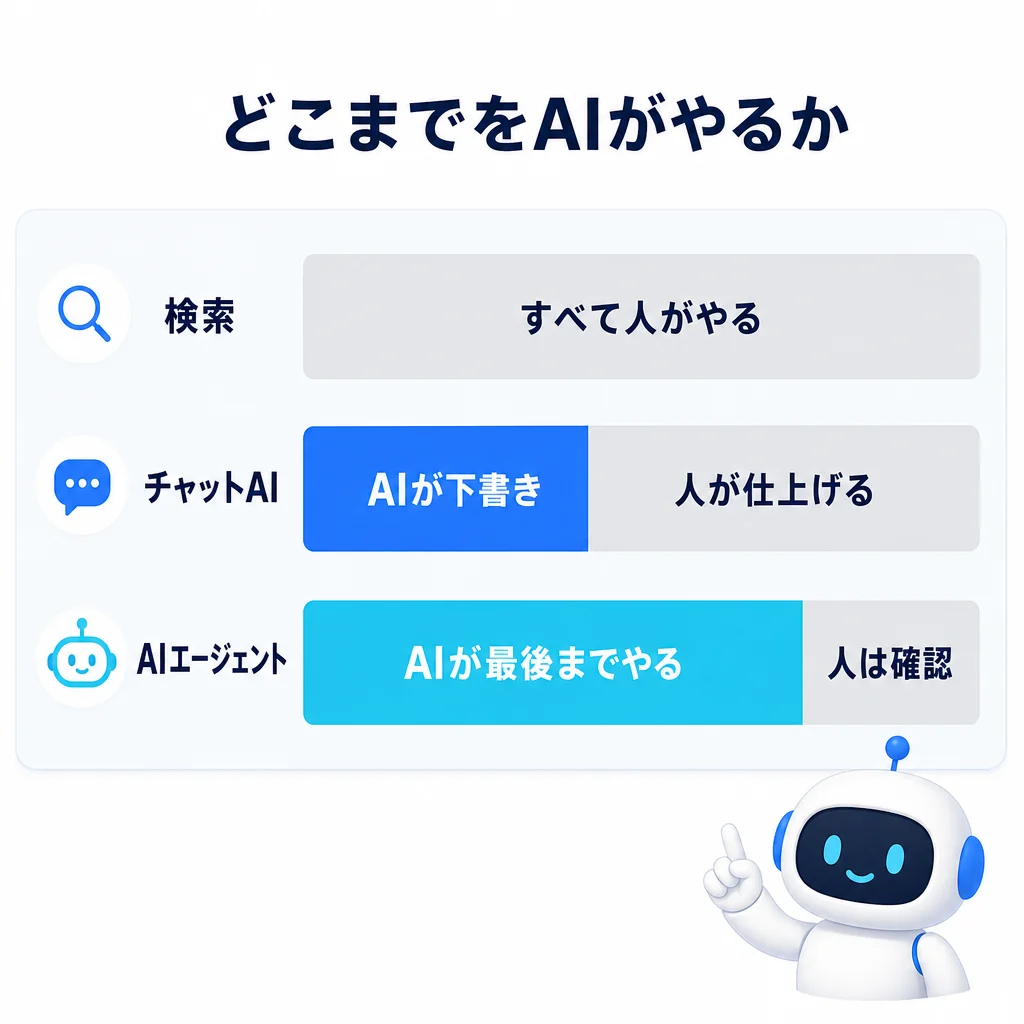
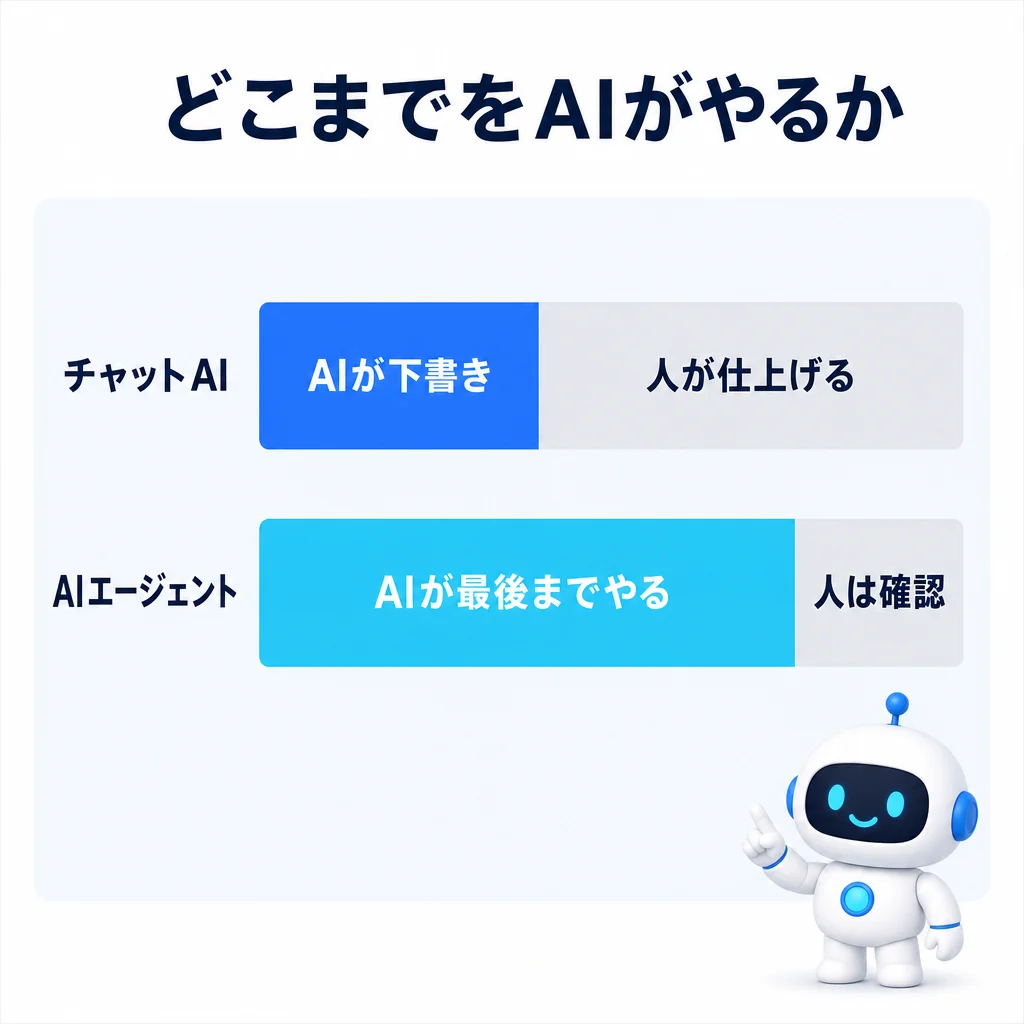
熊本AIエージェントLP: 導入効果・セキュリティを新設し、内部リンクを1本→10本へ
「熊本 AI導入支援」で当LPが拾われていない主因は内部リンクの少なさだった。
研修LPには15本ある一方、当LPは/service/からの1本のみ。ここを是正しつつ、
検索意図に対して不足していた「導入するとどうなるか」と「セキュリティ」を追加した。

コンテンツ
- 冒頭にTSMC進出を含む社会的背景を追加。熊本で人材獲得競争が激化し、
  中小企業の採用条件が厳しくなっている前提から入る
- RESULTS「熊本の会社がAIエージェントを導入すると、どうなるのか」新設。
  朝の30分／属人化／繁忙期の3場面をbefore-afterで示す
- SECURITY「セキュリティは、企業様ごとに設計します」新設。
  読ませる範囲・人の確認・記録の3層＋士業/製造/建設/医療介護の線引き。
  絶対に事故が起きない仕組みは存在しない旨も明記して過度な保証はしない
- AIエージェントの説明から「検索」を外し、チャットAIとAIエージェントの
  2つの対比に整理（光太郎くん指示）

内部リンク
- Base.astroのフッターに追加（全37ページから到達）
- トップページのサービス欄に熊本2LPへの導線を追加
- 研修LPから相互リンク
- AIエージェント系ブログ6本の末尾に文脈リンク

レイアウト
- 3枚組の中間幅を2列＋3枚目センター寄せに変更。1列送りだと間延びしていた

図解は文字入り明色版を3枚追加（導入前後・セキュリティ・帯グラフの2行版）。

Changed region(s): [[0.0312, 0.2812, 0.9688, 1.0], [0.1562, 0.0625, 0.9062, 0.1562], [0.9375, 0.9375, 0.9688, 0.9688]]

diff --git a/src/content/blog/chusho-90days-ai-donyu.md b/src/content/blog/chusho-90days-ai-donyu.md
@@ -64,4 +64,4 @@ thumb: "/thumbs/chusho-90days-ai-donyu.webp"
 
 熊本で研修や導入支援をさせていただいてきた中でも、90日を過ぎたころに「もっと早く始めればよかった」とおっしゃる経営者の方がとても多いです。裏を返せば、それだけ最初の一歩のハードルが高く見えているということでもあります。
 
-一社ごとに業種も体制も違うので、90日プランの中身は当然カスタマイズが必要です。熊本の企業向けの[生成AI研修](/kumamoto-ai-training/)や、業種別の[導入実績](/works/)もサイトにまとめていますので、自社に当てはめて考える材料としてご覧いただければ幸いです。ここから先の90日が、御社にとって「動き出しの90日」になれば嬉しく思います。
+一社ごとに業種も体制も違うので、90日プランの中身は当然カスタマイズが必要です。熊本の企業向けの[生成AI研修](/kumamoto-ai-training/)、業務の自動化まで見据えるなら[熊本のAI導入支援](/kumamoto-ai-agent/)、業種別の[導入実績](/works/)もサイトにまとめていますので、自社に当てはめて考える材料としてご覧いただければ幸いです。ここから先の90日が、御社にとって「動き出しの90日」になれば嬉しく思います。

diff --git a/src/content/blog/ai-shain-tsukurikata.md b/src/content/blog/ai-shain-tsukurikata.md
@@ -263,4 +263,4 @@ AI社員は優秀ですが、位置づけはあくまで新入社員です。入
 
 ![始め方は、まず1人まず1業務。今日は会社の事実を1枚書く、今週は仕事を1つ頼む、来月は手順書を足す](/blog/ai-shain-tsukurikata/12-hajimekata.webp)
 
-弊社WizTryは熊本を拠点に、企業向けの生成AI研修とAIエージェント導入支援を行っています。この記事のような仕組みを自社でも作ってみたい、まず何から始めればいいか相談したい、という方は[サービス案内](/service/)や[導入実績](/works/)をご覧ください。研修をお探しの方には[熊本の生成AI研修](/kumamoto-ai-training/)のページにまとめています。
+弊社WizTryは熊本を拠点に、企業向けの生成AI研修とAIエージェント導入支援を行っています。この記事のような仕組みを自社でも作ってみたい、まず何から始めればいいか相談したい、という方は[サービス案内](/service/)や[導入実績](/works/)をご覧ください。研修をお探しの方には[熊本の生成AI研修](/kumamoto-ai-training/)、仕組みづくりから任せたい方には[熊本のAIエージェント導入支援](/kumamoto-ai-agent/)のページにまとめています。

diff --git a/src/content/blog/agent-skills-kaisetsu.md b/src/content/blog/agent-skills-kaisetsu.md
@@ -54,6 +54,6 @@ SKILL.mdの先頭には「このスキルの名前」と「どんなときに使
 
 同じAIモデルを使っていても、スキルを整備した会社のAIと、そうでない会社のAIは、半年後にまったく別の戦力になっています。差がつくのはモデルの性能ではなく、教えた業務の量です。
 
-WizTryでは、このAgent Skillsの仕組みを自社の業務でフル活用しながら、企業向けに「AIに仕事を教える」導入支援を行っています。貴社の業務マニュアル、AIが読める形にしませんか？——[ご相談はこちら](/contact/)からどうぞ。
+WizTryでは、このAgent Skillsの仕組みを自社の業務でフル活用しながら、企業向けに「AIに仕事を教える」導入支援を行っています。貴社の業務マニュアル、AIが読める形にしませんか？　進め方は[熊本のAIエージェント導入支援](/kumamoto-ai-agent/)にまとめています。[ご相談はこちら](/contact/)からどうぞ。
 
 ※仕様・提供状況は2026年7月10日時点の情報です。
